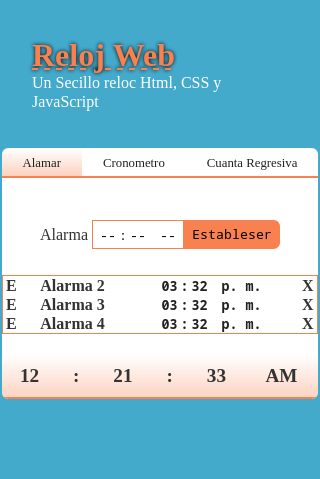
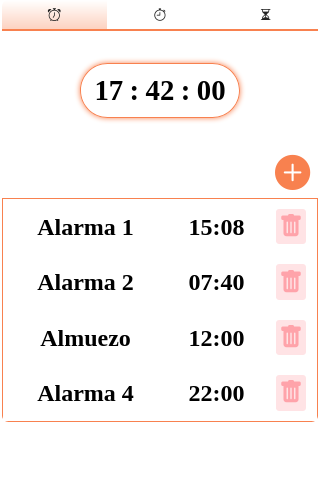
mmuestra.png update

diff --git a/index.html b/index.html
@@ -162,7 +162,29 @@
         <table class="TableAlarma">
           <tbody>
             <tr>
+              <th><p>Alarma 1</p></th>
+              <th>
+                <time datetime="">15:08</time>
+              </th>
+              <th>
+                <button class="btn btn-accion btn-edit">
+                  <i class="bi bi-trash-fill"></i>
+                </button>
+              </th>
+            </tr>
+            <tr>
               <th><p>Alarma 2</p></th>
+              <th>
+                <time datetime="">07:40</time>
+              </th>
+              <th>
+                <button class="btn btn-accion btn-edit">
+                  <i class="bi bi-trash-fill"></i>
+                </button>
+              </th>
+            </tr>
+            <tr>
+              <th><p>Almuezo</p></th>
               <th>
                 <time datetime="">12:00</time>
               </th>
@@ -172,6 +194,19 @@
                 </button>
               </th>
             </tr>
+            <tr>
+              <th><p>Alarma 4</p></th>
+              <th>
+                <time datetime="">22:00</time>
+              </th>
+              <th>
+                <button class="btn btn-accion btn-edit">
+                  <i class="bi bi-trash-fill"></i>
+                </button>
+              </th>
+            </tr>
+
+
           </tbody>
         </table>
       </div>

diff --git a/readme.md b/readme.md
@@ -1,5 +1,5 @@
 
-Reloj Web. 
+Reloj Web.
 ========================
 Un sencilla App Web con la funcione<br>
 basica de un Reloj dijital dar lar Ora, programacion <br>
@@ -9,8 +9,10 @@ Contruido con las trifuerza de la Web, HTML, CSS Y JAVASCRIPT. <br>
 
 -------------------------------
 
+# alarma
+
 <img src="./demo/muestra.png">
 
-==============================
+-------------------------------
 
 # Proyecto EN BETA <br>
